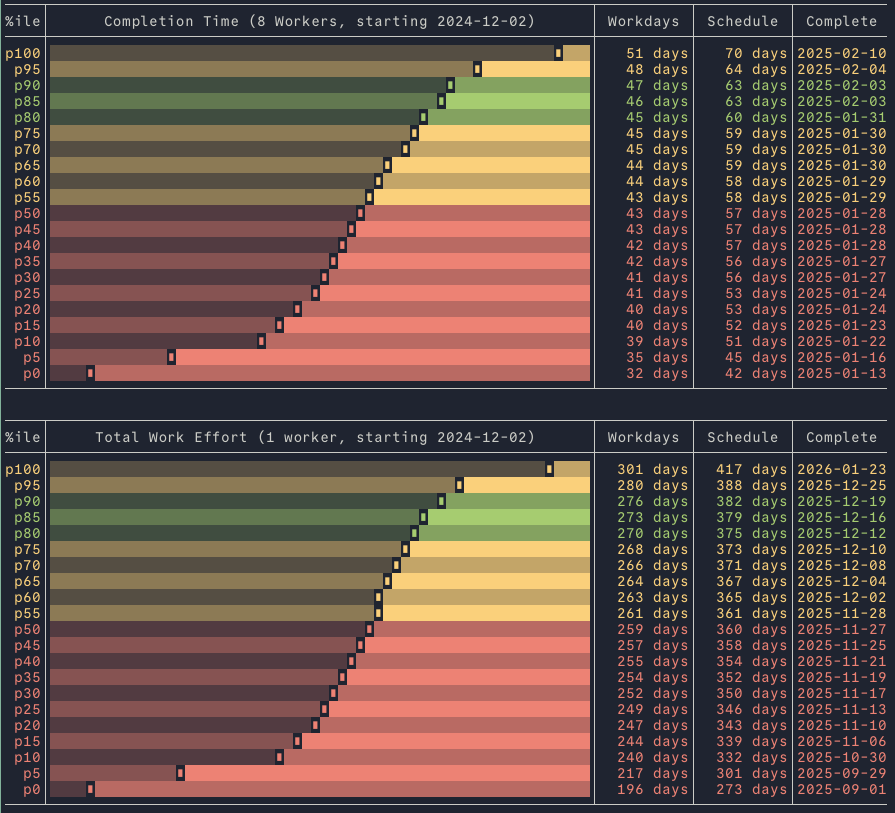
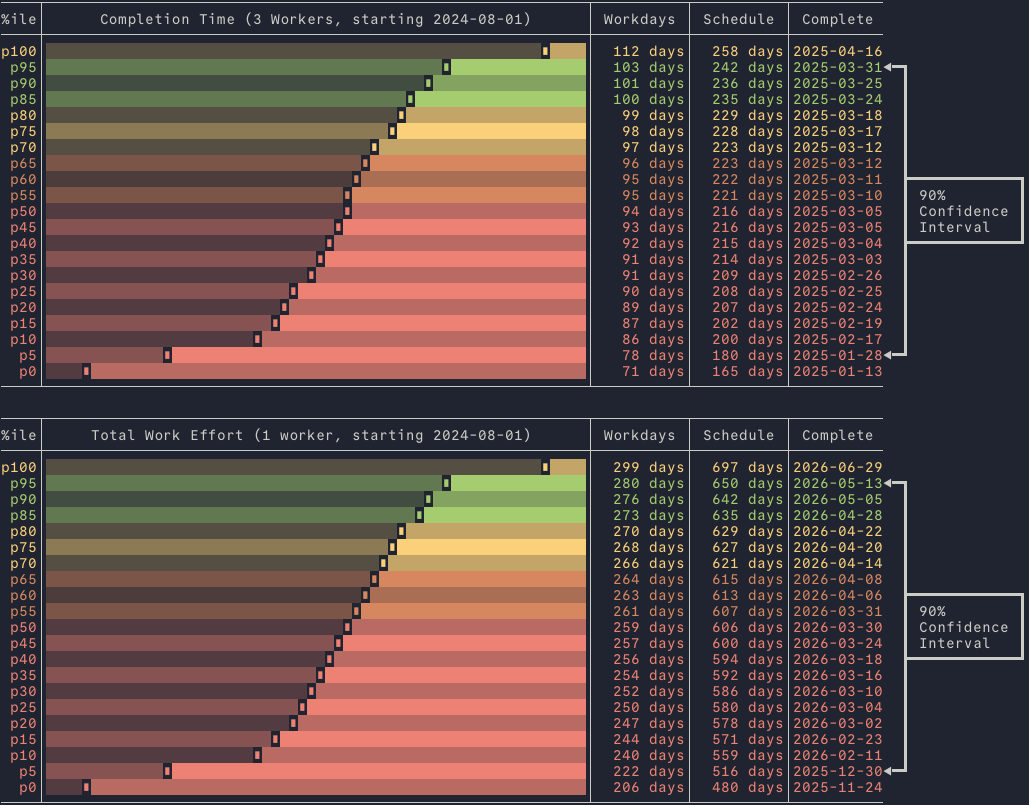
feat: highlight 90% CI and tweak colors

diff --git a/src/main.rs b/src/main.rs
@@ -15,7 +15,7 @@ Find example project definition and schedule config files in the repository:
 
 fn main() -> Result<(), Box<dyn std::error::Error>> {
     let matches = Command::new("Monte Carlo Project Scheduler")
-        .version("0.2.3")
+        .version("0.3.0")
         .author("Stephen Waits <steve@waits.net>")
         .about("Runs Monte Carlo simulations on project schedules")
         .arg(
@@ -188,11 +188,12 @@ fn print_ascii_cdf(data: &[Duration], title: &str, start: &NaiveDate, calendar: 
         };
 
         let color_code = match 100 - i * 5 {
-            0..=50 => "\x1b[31m",   // Red
-            55..=75 => "\x1b[33m",  // Orange
-            80..=90 => "\x1b[32m",  // Green
-            95..=100 => "\x1b[33m", // Orange
-            _ => "\x1b[0m",         // Default (shouldn't happen)
+            0..=45 => "\x1b[31m",        // Red
+            50..=65 => "\x1b[38;5;173m", // Orange
+            70..=80 => "\x1b[33m",       // Yellow
+            85..=95 => "\x1b[32m",       // Green
+            96..=100 => "\x1b[33m",      // Yellow
+            _ => "\x1b[0m",              // Default (shouldn't happen)
         };
         let reset_code = "\x1b[0m";
 
@@ -204,8 +205,20 @@ fn print_ascii_cdf(data: &[Duration], title: &str, start: &NaiveDate, calendar: 
             })
             .collect();
 
+        let trailing = match 100 - i * 5 {
+            95 => "◀━┓",
+            60 => "  ┣━━━━━━━━━━━━┓",
+            55 => "  ┃ 90%        ┃",
+            50 => "  ┃ Confidence ┃",
+            45 => "  ┃ Interval   ┃",
+            40 => "  ┣━━━━━━━━━━━━┛",
+            5 => "◀━┛",
+            6..=94 => "  ┃",
+            _ => "",
+        };
+
         println!(
-            "{}{:>4}{}│{}{}{}│{}{:5.0} days{}│{}{:5.0} days{}│{}{}{}",
+            "{}{:>4}{}│{}{}{}│{}{:5.0} days{}│{}{:5.0} days{}│{}{}{}{}",
             color_code,
             format!("p{}", 100 - i * 5),
             reset_code,
@@ -220,7 +233,8 @@ fn print_ascii_cdf(data: &[Duration], title: &str, start: &NaiveDate, calendar: 
             reset_code,
             color_code,
             end_date,
-            reset_code
+            reset_code,
+            trailing
         );
     }
     println!("────┴────────────────────────────────────────────────────────────┴──────────┴──────────┴──────────");
